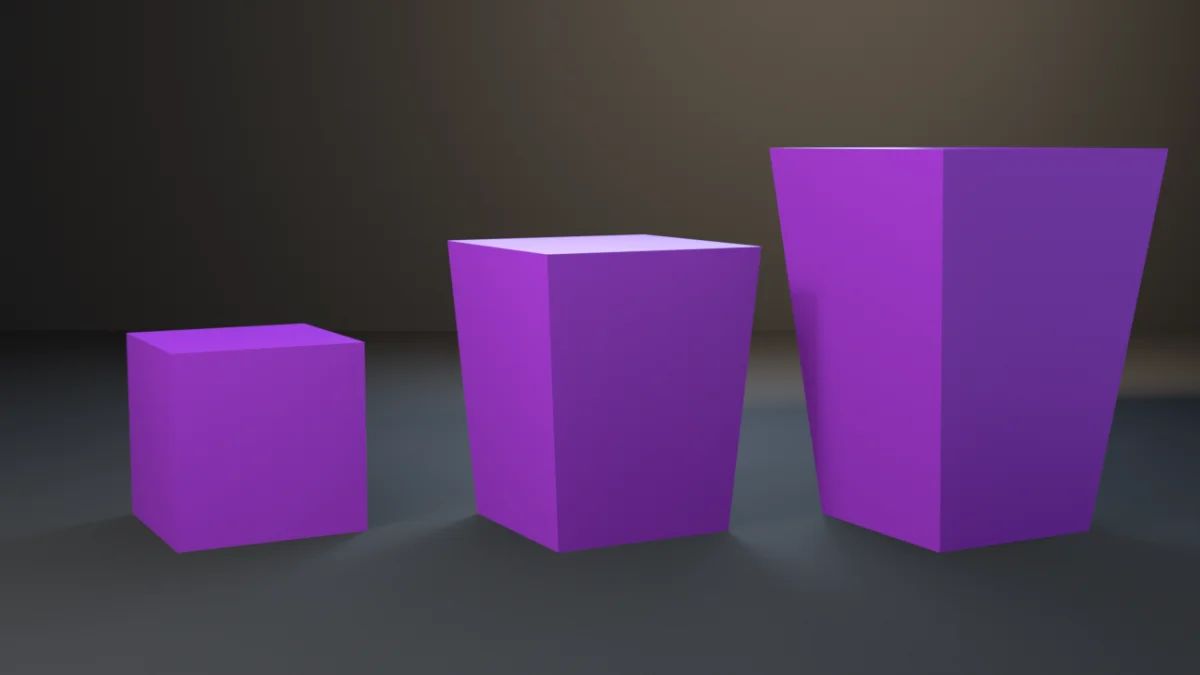
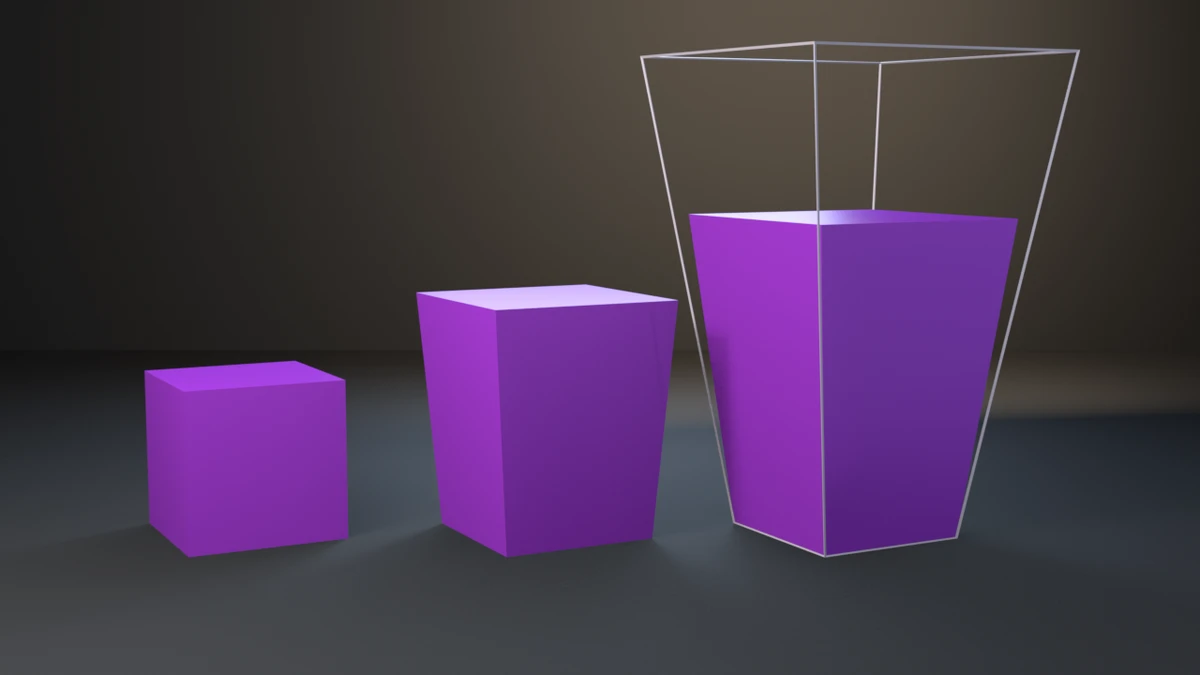
fix(examples): shape-key-blend still cages the checked block with its key endpoints
Render path only. The check, its assertions and exit codes are unchanged.
docs/gallery/index.html also carries the shipping-crate card alt.

diff --git a/docs/gallery/shape-key-blend/index.html b/docs/gallery/shape-key-blend/index.html
@@ -16,13 +16,13 @@
   <meta property="og:image" content="https://tmhsdigital.github.io/Blender-Developer-Tools/gallery/assets/shape-key-blend-hero.webp" />
   <meta property="og:image:width" content="1280" />
   <meta property="og:image:height" content="720" />
-  <meta property="og:image:alt" content="Three purple boxes flaring wider at the top by increasing amounts, from a plain cube to a strong flare." />
+  <meta property="og:image:alt" content="Three purple boxes flaring wider at the top by increasing amounts; the rightmost sits inside a pale wire cage of its full shape key, halfway to it." />
   <meta property="og:site_name" content="Blender Developer Tools" />
   <meta name="twitter:card" content="summary_large_image" />
   <meta name="twitter:title" content="shape-key-blend — Examples — Blender Developer Tools" />
   <meta name="twitter:description" content="A relative Tall shape key that lifts and flares the top face — authored via shape_key_add / key_blocks / .value — read back from the depsgraph-evaluated mesh." />
   <meta name="twitter:image" content="https://tmhsdigital.github.io/Blender-Developer-Tools/gallery/assets/shape-key-blend-hero.webp" />
-  <meta name="twitter:image:alt" content="Three purple boxes flaring wider at the top by increasing amounts, from a plain cube to a strong flare." />
+  <meta name="twitter:image:alt" content="Three purple boxes flaring wider at the top by increasing amounts; the rightmost sits inside a pale wire cage of its full shape key, halfway to it." />
   <style>
     /* fonts are deployed by the landing build (docs/fonts/) */
     @font-face { font-family: 'Barlow Condensed'; font-weight: 600; font-display: swap;
@@ -268,8 +268,8 @@
     <p>A relative Tall shape key that lifts and flares the top face — authored via shape_key_add / key_blocks / .value — read back from the depsgraph-evaluated mesh.</p>
   </header>
   <main id="main">
-    <button class="detail-hero" id="heroZoom" type="button" aria-label="View full size: Three purple boxes flaring wider at the top by increasing amounts, from a plain cube to a strong flare.">
-      <img src="../assets/shape-key-blend-hero.webp" alt="Three purple boxes flaring wider at the top by increasing amounts, from a plain cube to a strong flare." width="1280" height="720" />
+    <button class="detail-hero" id="heroZoom" type="button" aria-label="View full size: Three purple boxes flaring wider at the top by increasing amounts; the rightmost sits inside a pale wire cage of its full shape key, halfway to it.">
+      <img src="../assets/shape-key-blend-hero.webp" alt="Three purple boxes flaring wider at the top by increasing amounts; the rightmost sits inside a pale wire cage of its full shape key, halfway to it." width="1280" height="720" />
     </button>
     <p class="zoom-hint">Rendered headless by the example itself — click to zoom.</p>
     <div class="callout"><span class="tag">witnesses</span> Shape keys do not rewrite mesh.vertices: every evaluated vert matches basis + value × (key − basis), including the flared top half-extent.</div>
@@ -460,6 +460,30 @@ EXPECT_TOP_HALF = HALF + BLEND * FLARE  <span class="c"># |x| and |y| of top ver
         ob.rotation_euler = (<span class="n">0.0</span>, <span class="n">0.0</span>, math.radians(<span class="n">28</span>))
         blocks.append(ob)
 
+    <span class="c"># Endpoint cages on the checked block: its Basis and its full Tall key as</span>
+    <span class="c"># pale wireframes, so the solid visibly sits halfway between the two —</span>
+    <span class="c"># the closed-form blend the check asserts, not just &quot;a taller box&quot;.</span>
+    <span class="c"># Render-only copies with their own key value; `obj` is untouched.</span>
+    cage_mat = bpy.data.materials.new(<span class="s">&quot;Cage&quot;</span>)
+    cage_mat.use_nodes = <span class="k">True</span>
+    cbsdf = cage_mat.node_tree.nodes[<span class="s">&quot;Principled BSDF&quot;</span>]
+    cbsdf.inputs[<span class="s">&quot;Base Color&quot;</span>].default_value = (<span class="n">0.92</span>, <span class="n">0.84</span>, <span class="n">1.0</span>, <span class="n">1.0</span>)
+    cbsdf.inputs[<span class="s">&quot;Roughness&quot;</span>].default_value = <span class="n">0.4</span>
+    cages = []
+    <span class="k">for</span> end <span class="k">in</span> (<span class="n">0.0</span>, <span class="n">1.0</span>):
+        me = obj.data.copy()
+        me.materials.clear()
+        me.materials.append(cage_mat)
+        me.shape_keys.key_blocks[<span class="s">&quot;Tall&quot;</span>].value = end
+        cage = bpy.data.objects.new(<span class="s">f&quot;</span><span class="s">Cage_</span>{end}<span class="s">&quot;</span>, me)
+        cage.location = obj.location
+        cage.rotation_euler = obj.rotation_euler
+        wire = cage.modifiers.new(<span class="s">&quot;cage&quot;</span>, <span class="s">&quot;WIREFRAME&quot;</span>)
+        wire.thickness = <span class="n">0.02</span>
+        wire.use_even_offset = <span class="k">True</span>
+        bpy.context.collection.objects.link(cage)
+        cages.append(cage)
+
     floor_me = bpy.data.meshes.new(<span class="s">&quot;Floor&quot;</span>)
     bm = bmesh.new()
     <span class="k">try</span>:
@@ -487,7 +511,9 @@ EXPECT_TOP_HALF = HALF + BLEND * FLARE  <span class="c"># |x| and |y| of top ver
 
     world_top = HALF + EXPECT_TOP_Z
     aim = bpy.data.objects.new(<span class="s">&quot;Aim&quot;</span>, <span class="k">None</span>)
-    aim.location = (<span class="n">0.0</span>, <span class="n">0.0</span>, world_top / <span class="n">2</span>)
+    <span class="c"># Aimed above the checked block&#x27;s middle: the full-key cage over it is</span>
+    <span class="c"># taller than any solid, and centring on the solids clipped it.</span>
+    aim.location = (<span class="n">0.35</span>, <span class="n">0.0</span>, world_top * <span class="n">0.62</span>)
     scene.collection.objects.link(aim)
 
     <span class="k">def</span> light(name, loc, energy, size, col):
@@ -520,7 +546,8 @@ EXPECT_TOP_HALF = HALF + BLEND * FLARE  <span class="c"># |x| and |y| of top ver
     cam_data = bpy.data.cameras.new(<span class="s">&quot;Cam&quot;</span>)
     cam_data.lens = <span class="n">50.0</span>
     cam = bpy.data.objects.new(<span class="s">&quot;Cam&quot;</span>, cam_data)
-    cam.location = (<span class="n">0.0</span>, -<span class="n">8.8</span>, <span class="n">2.05</span>)
+    <span class="c"># Pulled back so the full-key cage on the right block stays in frame.</span>
+    cam.location = (<span class="n">0.35</span>, -<span class="n">10.4</span>, <span class="n">2.5</span>)
     scene.collection.objects.link(cam)
     scene.camera = cam
     track = cam.constraints.new(<span class="s">&#x27;TRACK_TO&#x27;</span>)
@@ -581,7 +608,7 @@ EXPECT_TOP_HALF = HALF + BLEND * FLARE  <span class="c"># |x| and |y| of top ver
   </main>
   <dialog class="lightbox" id="lightbox" aria-label="Full-size render">
     <button class="lightbox-close" type="button" autofocus>Close</button>
-    <img src="../assets/shape-key-blend-hero.webp" alt="Three purple boxes flaring wider at the top by increasing amounts, from a plain cube to a strong flare." />
+    <img src="../assets/shape-key-blend-hero.webp" alt="Three purple boxes flaring wider at the top by increasing amounts; the rightmost sits inside a pale wire cage of its full shape key, halfway to it." />
   </dialog>
   <footer>
     <div class="statusbar">

diff --git a/docs/gallery/index.html b/docs/gallery/index.html
@@ -464,7 +464,7 @@
       </article>
       <article class="card" data-tags="mesh shape-keys">
         <a class="card-media" href="shape-key-blend/" tabindex="-1" aria-hidden="true">
-          <img src="assets/shape-key-blend-hero.webp" alt="Three purple boxes flaring wider at the top by increasing amounts, from a plain cube to a strong flare." loading="lazy" decoding="async" />
+          <img src="assets/shape-key-blend-hero.webp" alt="Three purple boxes flaring wider at the top by increasing amounts; the rightmost sits inside a pale wire cage of its full shape key, halfway to it." loading="lazy" decoding="async" />
         </a>
         <div class="card-body">
           <h2><a href="shape-key-blend/">shape-key-blend</a></h2>
@@ -904,7 +904,7 @@
       </article>
       <article class="card" data-tags="mesh export showcase">
         <a class="card-media" href="shipping-crate/" tabindex="-1" aria-hidden="true">
-          <img src="assets/shipping-crate-hero.webp" alt="A wooden shipping crate with dark corner posts, horizontal planks and a metal handle." loading="lazy" decoding="async" />
+          <img src="assets/shipping-crate-hero.webp" alt="A grained wooden shipping crate with nailed iron corner straps, horizontal planks and a metal bail handle mounted on one end board." loading="lazy" decoding="async" />
         </a>
         <div class="card-body">
           <h2><a href="shipping-crate/">shipping-crate</a></h2>

diff --git a/examples/shape-key-blend/shape_key_blend.py b/examples/shape-key-blend/shape_key_blend.py
@@ -157,6 +157,30 @@ def render_still(obj, path, engine):
         ob.rotation_euler = (0.0, 0.0, math.radians(28))
         blocks.append(ob)
 
+    # Endpoint cages on the checked block: its Basis and its full Tall key as
+    # pale wireframes, so the solid visibly sits halfway between the two —
+    # the closed-form blend the check asserts, not just "a taller box".
+    # Render-only copies with their own key value; `obj` is untouched.
+    cage_mat = bpy.data.materials.new("Cage")
+    cage_mat.use_nodes = True
+    cbsdf = cage_mat.node_tree.nodes["Principled BSDF"]
+    cbsdf.inputs["Base Color"].default_value = (0.92, 0.84, 1.0, 1.0)
+    cbsdf.inputs["Roughness"].default_value = 0.4
+    cages = []
+    for end in (0.0, 1.0):
+        me = obj.data.copy()
+        me.materials.clear()
+        me.materials.append(cage_mat)
+        me.shape_keys.key_blocks["Tall"].value = end
+        cage = bpy.data.objects.new(f"Cage_{end}", me)
+        cage.location = obj.location
+        cage.rotation_euler = obj.rotation_euler
+        wire = cage.modifiers.new("cage", "WIREFRAME")
+        wire.thickness = 0.02
+        wire.use_even_offset = True
+        bpy.context.collection.objects.link(cage)
+        cages.append(cage)
+
     floor_me = bpy.data.meshes.new("Floor")
     bm = bmesh.new()
     try:
@@ -184,7 +208,9 @@ def render_still(obj, path, engine):
 
     world_top = HALF + EXPECT_TOP_Z
     aim = bpy.data.objects.new("Aim", None)
-    aim.location = (0.0, 0.0, world_top / 2)
+    # Aimed above the checked block's middle: the full-key cage over it is
+    # taller than any solid, and centring on the solids clipped it.
+    aim.location = (0.35, 0.0, world_top * 0.62)
     scene.collection.objects.link(aim)
 
     def light(name, loc, energy, size, col):
@@ -217,7 +243,8 @@ def render_still(obj, path, engine):
     cam_data = bpy.data.cameras.new("Cam")
     cam_data.lens = 50.0
     cam = bpy.data.objects.new("Cam", cam_data)
-    cam.location = (0.0, -8.8, 2.05)
+    # Pulled back so the full-key cage on the right block stays in frame.
+    cam.location = (0.35, -10.4, 2.5)
     scene.collection.objects.link(cam)
     scene.camera = cam
     track = cam.constraints.new('TRACK_TO')
